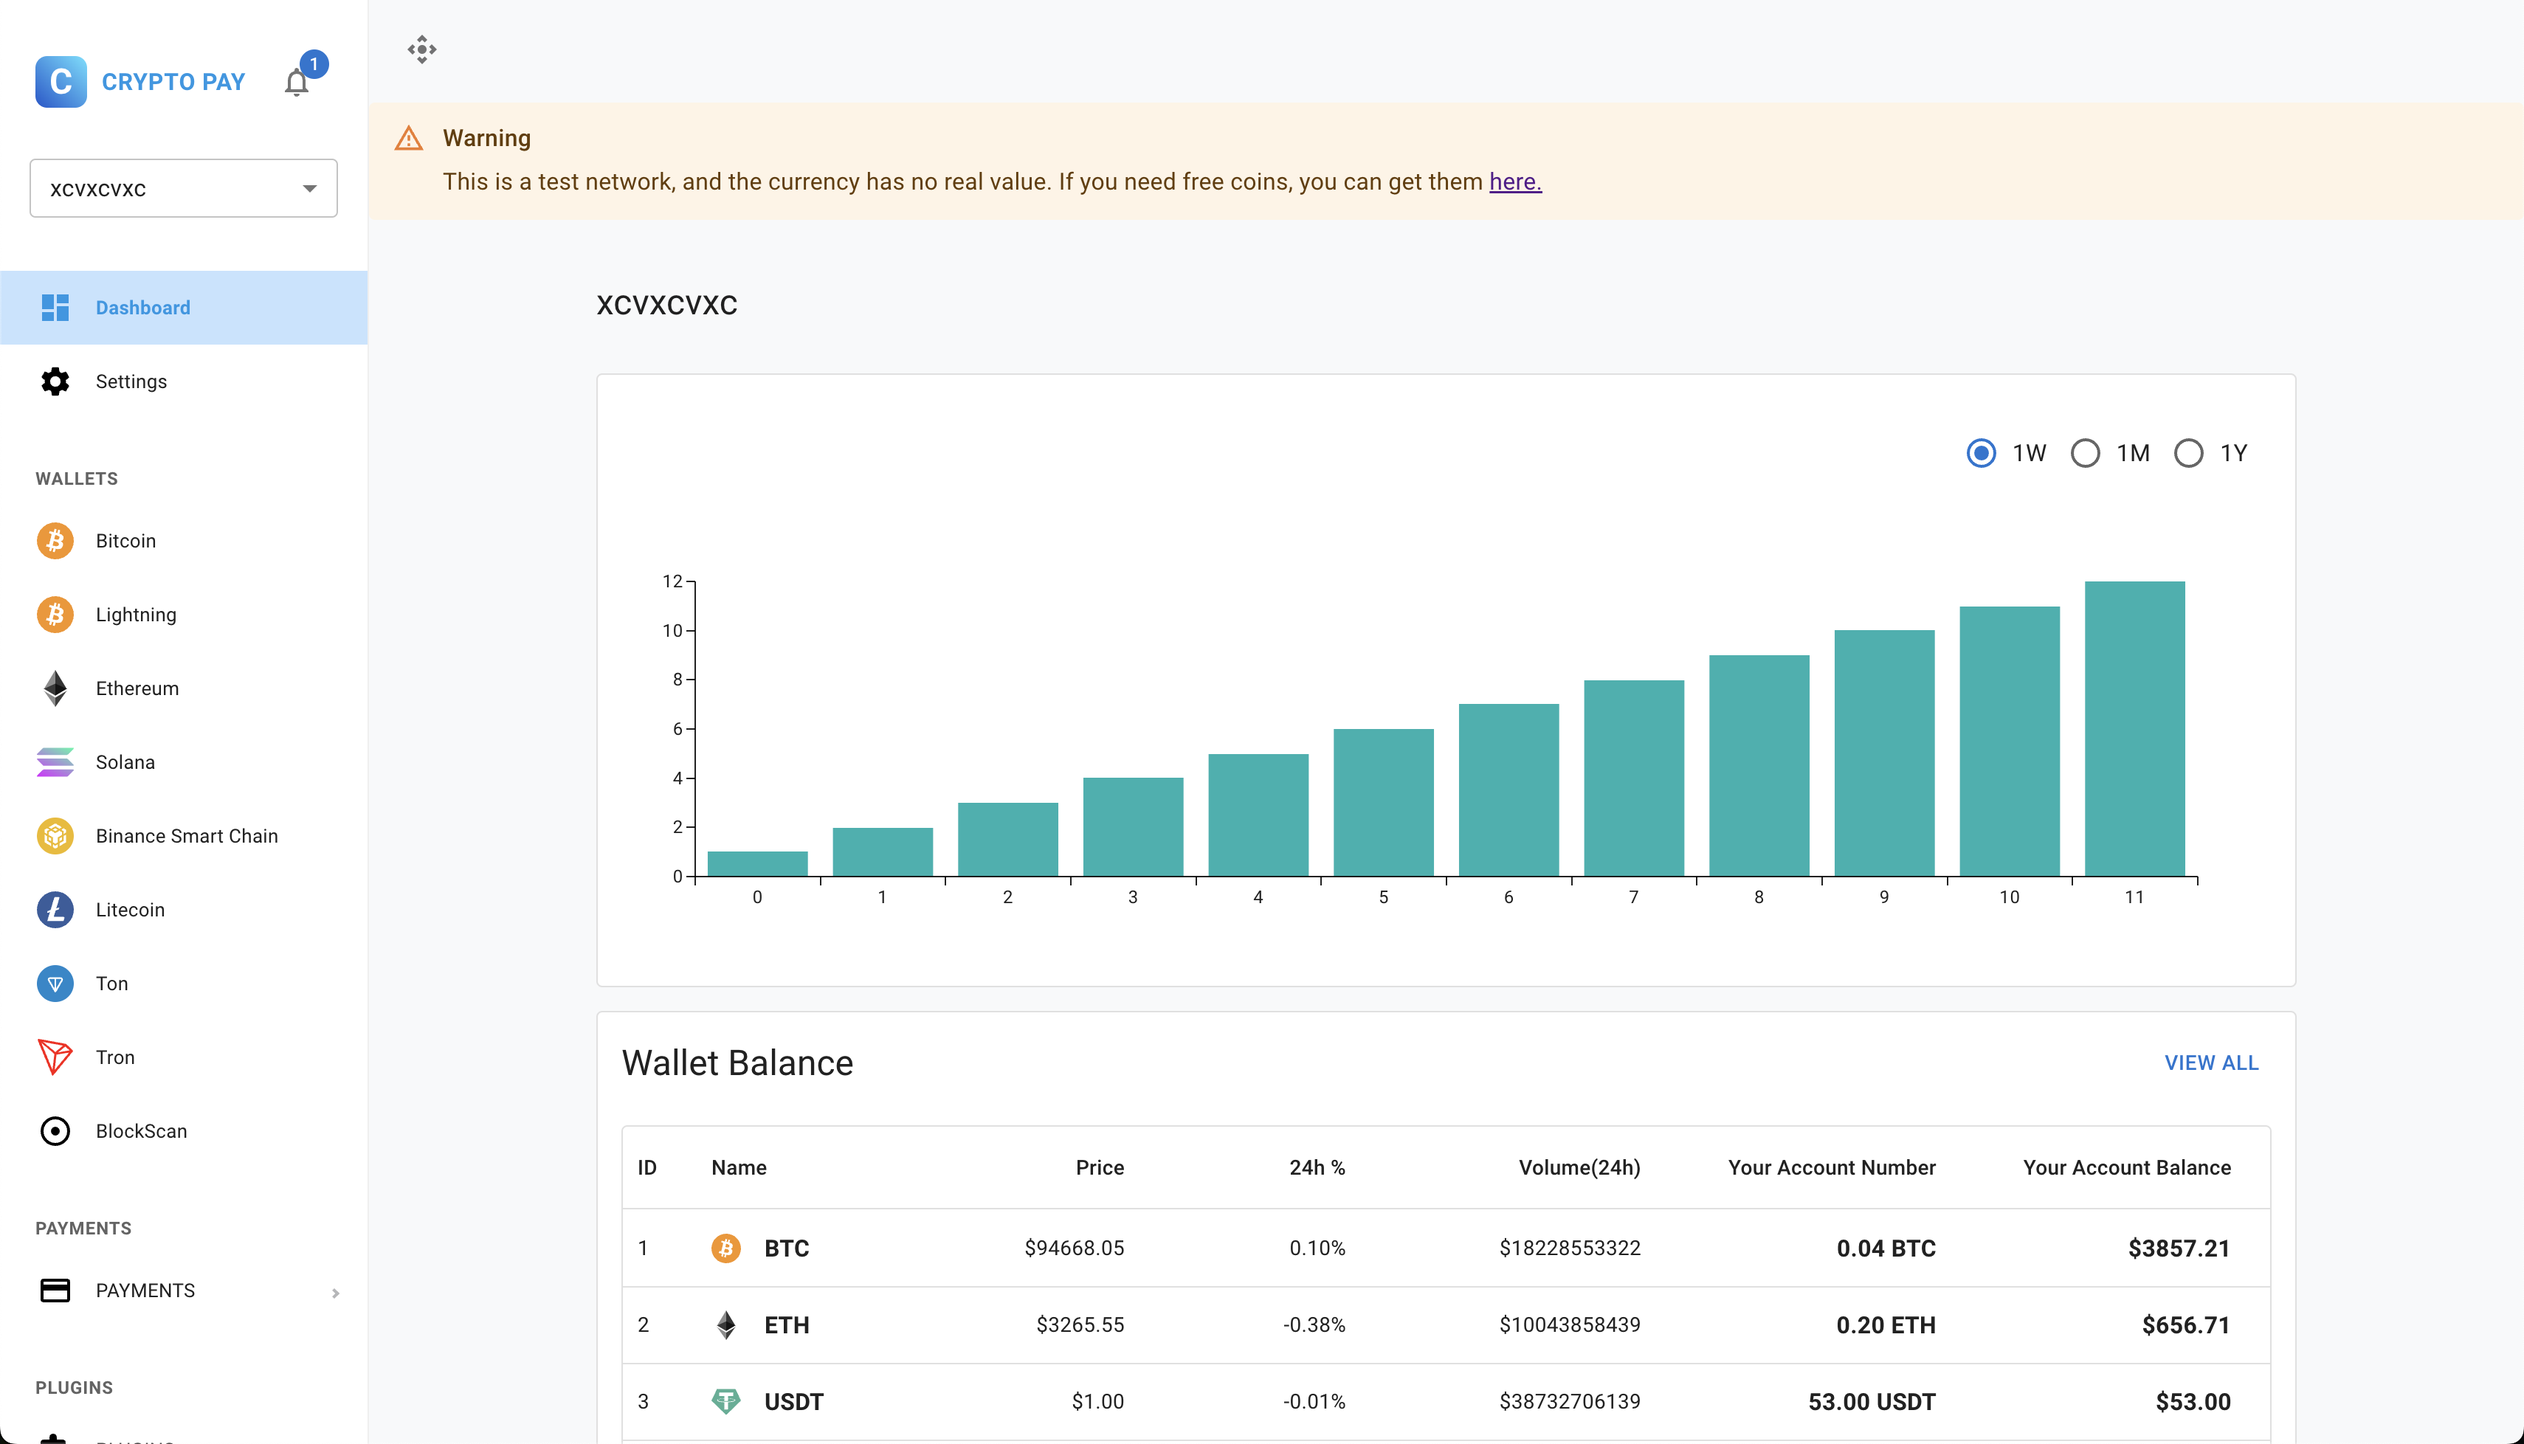
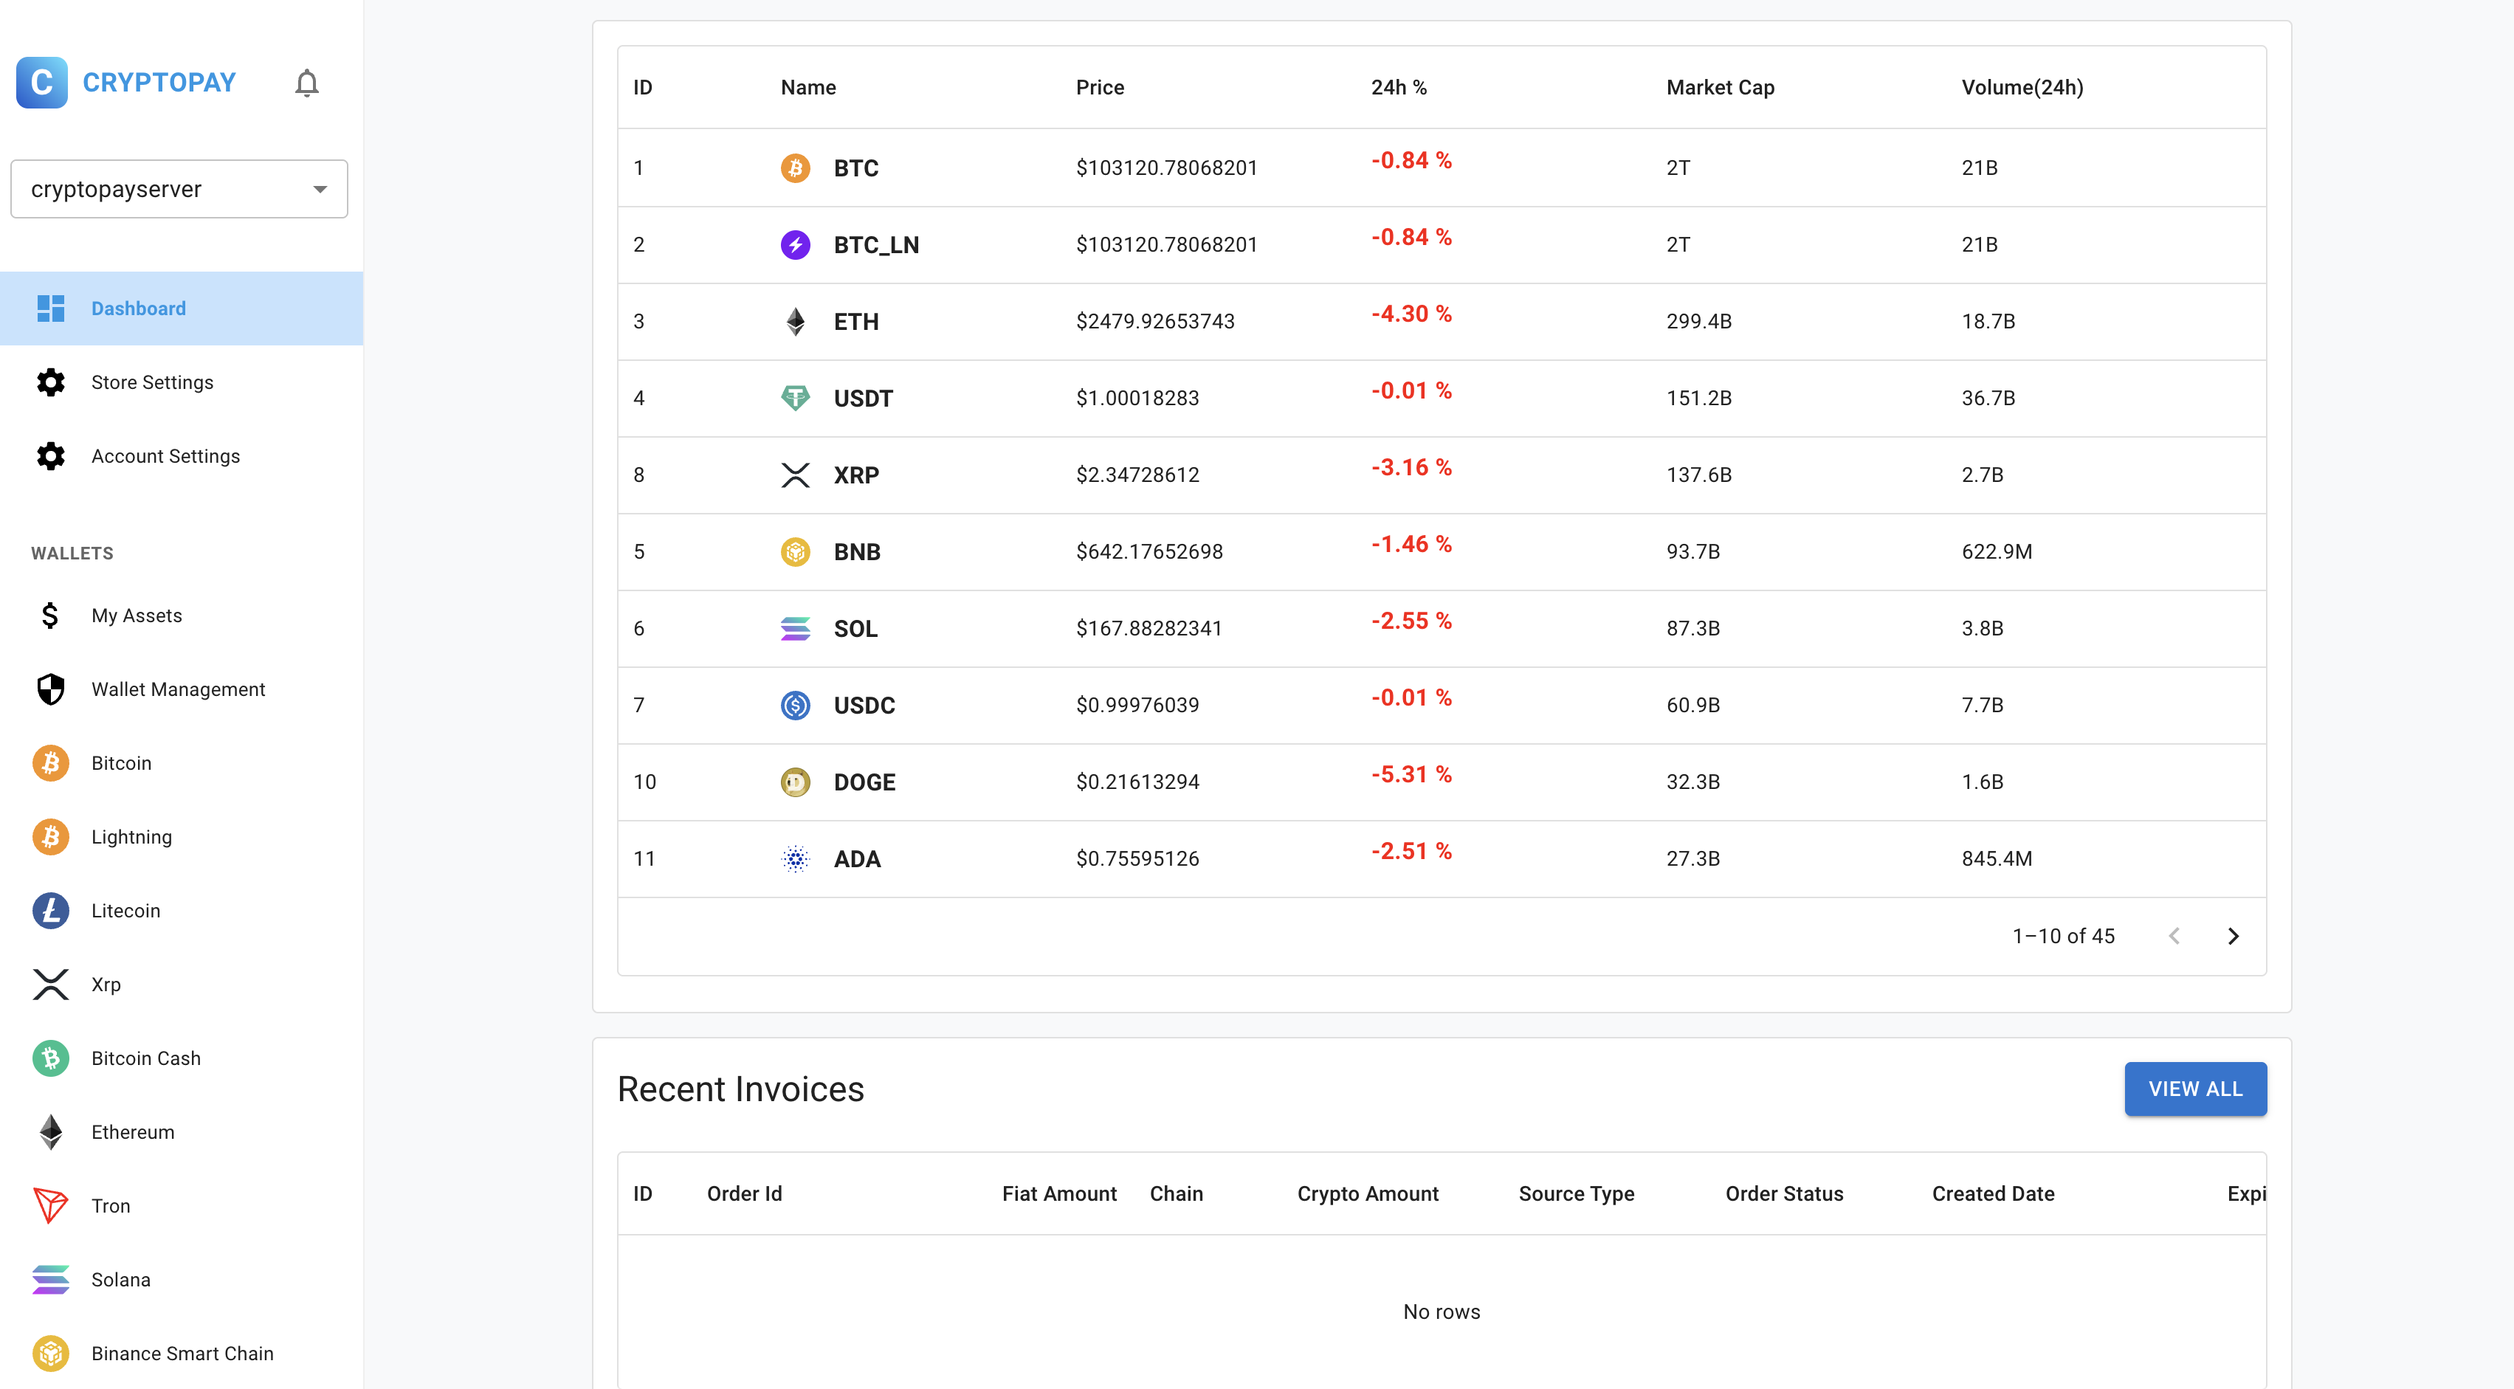
update home page and fix some bug

diff --git a/src/components/Welcome/components/Features.tsx b/src/components/Welcome/components/Features.tsx
@@ -5,79 +5,85 @@ import Card from '@mui/material/Card';
 import MuiChip from '@mui/material/Chip';
 import Container from '@mui/material/Container';
 import Typography from '@mui/material/Typography';
-
 import { styled } from '@mui/material/styles';
-
-import DevicesRoundedIcon from '@mui/icons-material/DevicesRounded';
-import EdgesensorHighRoundedIcon from '@mui/icons-material/EdgesensorHighRounded';
-import ViewQuiltRoundedIcon from '@mui/icons-material/ViewQuiltRounded';
+import {
+  AppSettingsAlt,
+  CropFree,
+  Hub,
+  IntegrationInstructions,
+  LocalGroceryStore,
+  Payment,
+  RadioButtonChecked,
+  Receipt,
+  SwipeRight,
+} from '@mui/icons-material';
 
 const items = [
   {
-    icon: <ViewQuiltRoundedIcon />,
+    icon: <CropFree />,
     title: 'Free & Peer to Peer',
     description:
       'Direct, peer-to-peer payments. No merchant processing fees. No transaction fees (other than the network fee).',
-    imageLight: `url("/images/dashboard.png")`,
-    imageDark: `url("/images/dashboard.png")`,
+    imageLight: `url("/images/dashboard/free.png")`,
+    imageDark: `url("/images/dashboard/free.png")`,
   },
   {
-    icon: <EdgesensorHighRoundedIcon />,
+    icon: <Hub />,
     title: 'Self-hosted',
     description:
       'Your node, your coins. No middleman. No KYC/AML. Non-custodial (complete control over the private key). Hardware wallet integration support.',
-    imageLight: `url("/images/dashboard.png")`,
-    imageDark: `url("/images/dashboard.png")`,
+    imageLight: `url("/images/dashboard/hub.png")`,
+    imageDark: `url("/images/dashboard/hub.png")`,
   },
   {
-    icon: <DevicesRoundedIcon />,
+    icon: <SwipeRight />,
     title: 'Cryptocurrency',
     description: 'Accept Crypto natively. Opt-in coin integrations.',
-    imageLight: `url("/images/dashboard.png")`,
-    imageDark: `url("/images/dashboard.png")`,
+    imageLight: `url("/images/dashboard/accept-crypto.png")`,
+    imageDark: `url("/images/dashboard/accept-crypto.png")`,
   },
   {
-    icon: <DevicesRoundedIcon />,
+    icon: <IntegrationInstructions />,
     title: 'CMS integrations',
     description: 'WordPress & WooCommerce, Shopify, etc. and custom integrations.',
-    imageLight: `url("/images/dashboard.png")`,
-    imageDark: `url("/images/dashboard.png")`,
+    imageLight: `url("/images/dashboard/cms.png")`,
+    imageDark: `url("/images/dashboard/cms.png")`,
   },
   {
-    icon: <DevicesRoundedIcon />,
+    icon: <AppSettingsAlt />,
     title: 'Apps',
     description:
       'Point-Of-Sale interface for physical stores. Crowdfunding interface for donation goals and fundraisers.',
-    imageLight: `url("/images/dashboard.png")`,
-    imageDark: `url("/images/dashboard.png")`,
+    imageLight: `url("/images/dashboard/apps.png")`,
+    imageDark: `url("/images/dashboard/apps.png")`,
   },
   {
-    icon: <DevicesRoundedIcon />,
+    icon: <RadioButtonChecked />,
     title: 'Payment Buttons',
     description: 'Easy-embeddable HTML donation and pay buttons.',
-    imageLight: `url("/images/dashboard.png")`,
-    imageDark: `url("/images/dashboard.png")`,
+    imageLight: `url("/images/dashboard/button.png")`,
+    imageDark: `url("/images/dashboard/button.png")`,
   },
   {
-    icon: <DevicesRoundedIcon />,
+    icon: <LocalGroceryStore />,
     title: 'Unlimited Stores',
     description: 'Merchants can process payments for their own stores, or for others.',
-    imageLight: `url("/images/dashboard.png")`,
-    imageDark: `url("/images/dashboard.png")`,
+    imageLight: `url("/images/dashboard/unlimited.png")`,
+    imageDark: `url("/images/dashboard/unlimited.png")`,
   },
   {
-    icon: <DevicesRoundedIcon />,
+    icon: <Receipt />,
     title: 'Transactions',
     description: 'Customers can pay in 20+ different languages.',
-    imageLight: `url("/images/dashboard.png")`,
-    imageDark: `url("/images/dashboard.png")`,
+    imageLight: `url("/images/dashboard/transactions.png")`,
+    imageDark: `url("/images/dashboard/transactions.png")`,
   },
   {
-    icon: <DevicesRoundedIcon />,
+    icon: <Payment />,
     title: 'Payment Requests',
     description: 'Create & send a long-lived invoice requesting payment for goods or services.',
-    imageLight: `url("/images/dashboard.png")`,
-    imageDark: `url("/images/dashboard.png")`,
+    imageLight: `url("/images/dashboard/requests.png")`,
+    imageDark: `url("/images/dashboard/requests.png")`,
   },
 ];
 
@@ -273,9 +279,9 @@ export default function Features() {
             <Box
               sx={(theme) => ({
                 m: 'auto',
-                width: 420,
+                width: '100%',
                 height: 500,
-                backgroundSize: 'contain',
+                backgroundSize: 'cover',
                 backgroundImage: 'var(--items-imageLight)',
                 ...theme.applyStyles('dark', {
                   backgroundImage: 'var(--items-imageDark)',

diff --git a/src/pages/api/user/login.ts b/src/pages/api/user/login.ts
@@ -2,6 +2,7 @@ import type { NextApiRequest, NextApiResponse } from 'next';
 import { ResponseData, CorsMiddleware, CorsMethod } from '..';
 import CryptoJS from 'crypto-js';
 import { PrismaClient } from '@prisma/client';
+import { NOTIFICATION_TYPE } from 'packages/constants';
 
 export default async function handler(req: NextApiRequest, res: NextApiResponse<ResponseData>) {
   try {
@@ -24,6 +25,45 @@ export default async function handler(req: NextApiRequest, res: NextApiResponse<
 
         if (!user) {
           return res.status(200).json({ message: '', result: false, data: null });
+        }
+
+        const stores = await prisma.stores.findMany({
+          where: {
+            user_id: user.id,
+            status: 1,
+          },
+        });
+
+        if (stores && stores.length > 0) {
+          const message = `You have a new login: ${new Date().toLocaleString()}`;
+          const notifications = await prisma.notifications.createMany({
+            data: [
+              {
+                user_id: user.id,
+                store_id: stores[0].id,
+                network: 1,
+                label: NOTIFICATION_TYPE.UserUpdates,
+                message: message,
+                url: '',
+                is_seen: 2,
+                status: 1,
+              },
+              {
+                user_id: user.id,
+                store_id: stores[0].id,
+                network: 2,
+                label: NOTIFICATION_TYPE.UserUpdates,
+                message: message,
+                url: '',
+                is_seen: 2,
+                status: 1,
+              },
+            ],
+          });
+
+          if (!notifications) {
+            return res.status(200).json({ message: '', result: false, data: null });
+          }
         }
 
         return res.status(200).json({

diff --git a/src/packages/constants/blockchain/blockchain.ts b/src/packages/constants/blockchain/blockchain.ts
@@ -1290,7 +1290,7 @@ export const BLOCKCHAINNAMES: BLOCKCHAIN[] = [
     websiteUrl: 'https://solana.com',
     isMainnet: true,
     coins: SOLANA_COINS,
-    rpc: ['https://api.mainnet-beta.solana.com'],
+    rpc: ['https://solana-mainnet.g.alchemy.com/v2/7aSbxCv3DXvyH8Xno06Mer9tEX2LFSD0'],
     icon: require('assets/chain/solana.svg'),
   },
   {
@@ -1301,7 +1301,7 @@ export const BLOCKCHAINNAMES: BLOCKCHAIN[] = [
     websiteUrl: 'https://solana.com',
     isMainnet: false,
     coins: SOLANA_DEVNET_COINS,
-    rpc: ['https://api.devnet.solana.com'],
+    rpc: ['https://solana-devnet.g.alchemy.com/v2/7aSbxCv3DXvyH8Xno06Mer9tEX2LFSD0'],
     icon: require('assets/chain/solana.svg'),
   },
   {
@@ -1356,7 +1356,7 @@ export const BLOCKCHAINNAMES: BLOCKCHAIN[] = [
     coins: ARBITRUM_COINS,
     rpc: [
       'https://arb1.arbitrum.io/rpc',
-      'https://arbitrum.llamarpc.com',
+      // 'https://arbitrum.llamarpc.com',
       // 'https://arbitrum.meowrpc.com',
       'https://arbitrum.drpc.org',
       'https://arbitrum-one.publicnode.com',
@@ -1453,7 +1453,7 @@ export const BLOCKCHAINNAMES: BLOCKCHAIN[] = [
     isMainnet: true,
     coins: BASE_COINS,
     rpc: [
-      'https://base.llamarpc.com',
+      // 'https://base.llamarpc.com',
       'https://mainnet.base.org',
       'https://developer-access-mainnet.base.org',
       'https://1rpc.io/base',

diff --git a/src/components/Welcome/components/Pricing.tsx b/src/components/Welcome/components/Pricing.tsx
@@ -28,13 +28,13 @@ const tiers = [
       'Transaction APIs',
     ],
     buttonText: 'Sign up for free',
-    buttonVariant: 'outlined',
+    buttonVariant: 'contained',
     buttonColor: 'primary',
   },
   {
     title: 'Professional',
     subheader: 'Recommended',
-    price: '0',
+    price: '99',
     description: [
       'Full CryptoPay development platform',
       'All mainnets & testnets',
@@ -51,7 +51,7 @@ const tiers = [
   },
   {
     title: 'Enterprise',
-    price: '0',
+    price: '999',
     description: [
       'Full CryptoPay development platform',
       'All mainnets & testnets',
@@ -63,7 +63,7 @@ const tiers = [
       'Transaction APIs',
     ],
     buttonText: 'Contact us',
-    buttonVariant: 'outlined',
+    buttonVariant: 'contained',
     buttonColor: 'primary',
   },
 ];

diff --git a/src/components/Welcome/components/Highlights.tsx b/src/components/Welcome/components/Highlights.tsx
@@ -17,7 +17,7 @@ const items = [
     icon: <SettingsSuggestRoundedIcon />,
     title: 'Cost',
     description:
-      'Deploy CryptoPay Server using a VPS, the following types of fees are never charged: Merchant fees, Subscription fees, Transfer fees and Software fees',
+      'Deploy CryptoPay Server using a VPS, the following types of fees are never charged: Merchant fees, Subscription fees, Transfer fees and Software fees.',
   },
   {
     icon: <ConstructionRoundedIcon />,

diff --git a/src/pages/api/invoice/create_invoice.ts b/src/pages/api/invoice/create_invoice.ts
@@ -271,11 +271,7 @@ export default async function handler(req: NextApiRequest, res: NextApiResponse<
         });
 
         if (!notification) {
-          return res.status(200).json({
-            message: '',
-            result: false,
-            data: null,
-          });
+          return res.status(200).json({ message: '', result: false, data: null });
         }
 
         return res.status(200).json({

diff --git a/src/components/Welcome/components/AppAppBar.tsx b/src/components/Welcome/components/AppAppBar.tsx
@@ -69,7 +69,7 @@ export default function AppAppBar() {
               <Stack direction={'row'} alignItems={'center'}>
                 <CustomLogo>C</CustomLogo>
                 <Typography fontWeight={'bold'} color="#0098e5" fontSize={16}>
-                  Crypto Pay
+                  CryptoPay
                 </Typography>
               </Stack>
             </Button>

diff --git a/src/components/Sidebar/SidebarFooter.tsx b/src/components/Sidebar/SidebarFooter.tsx
@@ -172,6 +172,7 @@ export const SidebarFooter: React.FC<SidebarFooterProps> = ({ children, collapse
       <Divider />
       <Box my={1}>
         <Button
+          color={'error'}
           onClick={() => {
             resetUser();
             resetStore();
